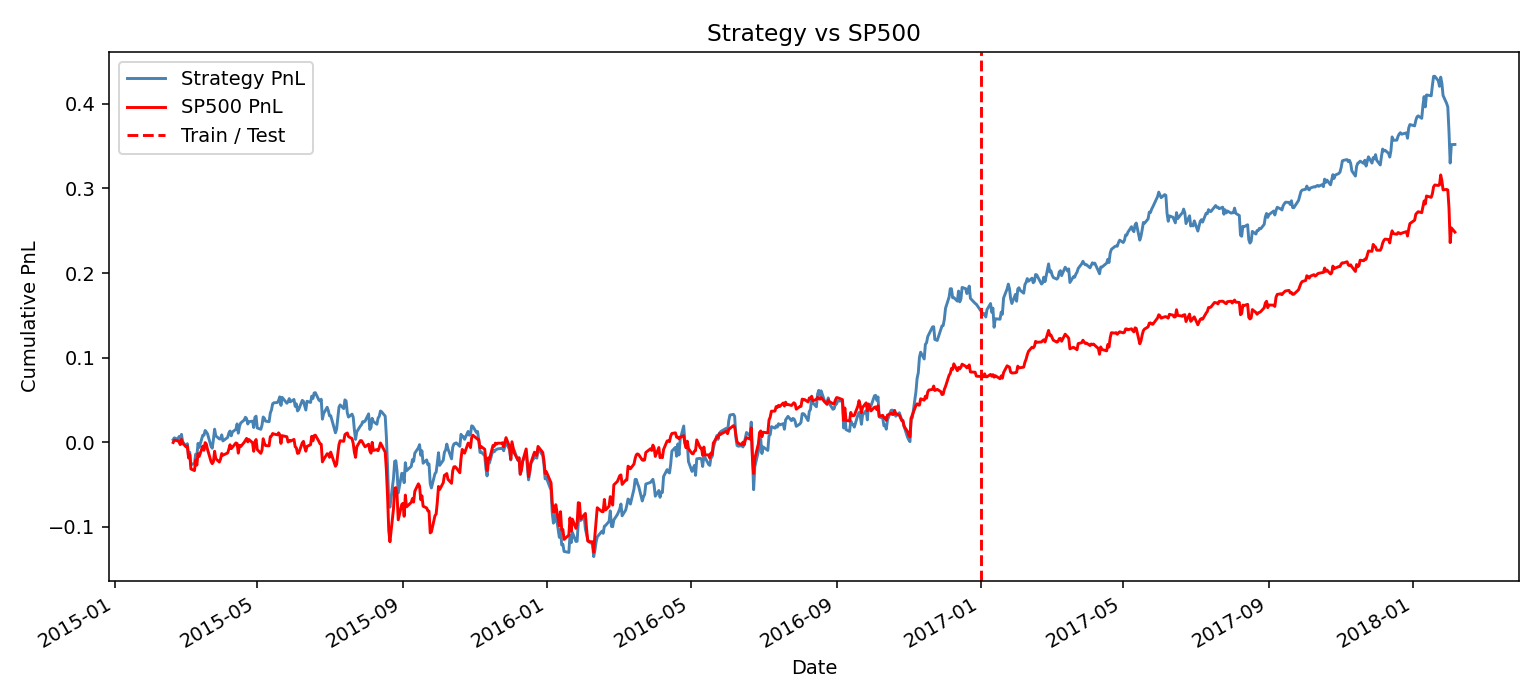
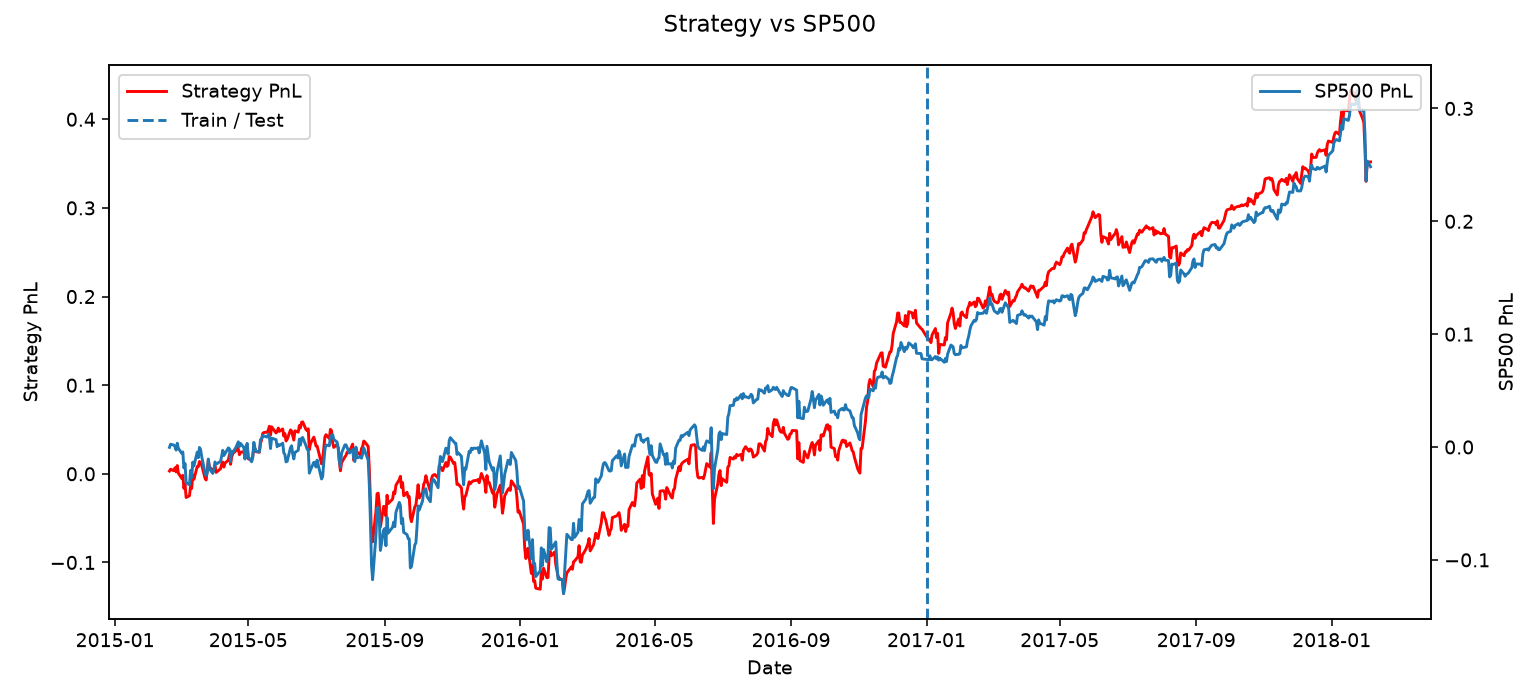
add max_drown

diff --git a/scripts/strategy.py b/scripts/strategy.py
@@ -17,6 +17,7 @@ from gridsearch import make_date_folds, prepare_training_data
 ROOT = os.path.dirname(os.path.dirname(os.path.abspath(__file__)))
 OUT = os.path.join(ROOT, "results", "strategy")
 MODEL_DIR = os.path.join(ROOT, "results", "selected-model")
+
 MOMENTUM_QUANTILE = 0.90
 
 
@@ -24,14 +25,20 @@ def to_weights(signal, momentum):
     selected_data = pd.concat(
         [signal.rename("signal"), momentum.rename("momentum")], axis=1
     ).dropna()
+
     cutoff = selected_data["momentum"].groupby(level="date").transform(
         lambda values: values.quantile(MOMENTUM_QUANTILE)
     )
+
     long = (
         (selected_data["signal"] > 0.5)
         & (selected_data["momentum"] >= cutoff)
     ).astype(float)
-    return (long / long.groupby(level="date").transform("sum").replace(0, np.nan)).rename("weight")
+
+    return (
+        long
+        / long.groupby(level="date").transform("sum").replace(0, np.nan)
+    ).rename("weight")
 
 
 def sp500_forward_returns(dates):
@@ -45,8 +52,15 @@ def sp500_forward_returns(dates):
         .set_index("Date")
         .sort_index()["Close"]
     )
+
     forward_return = close.shift(-2) / close.shift(-1) - 1
+
     return forward_return.reindex(dates).fillna(0)
+
+
+def max_drawdown(cum_r):
+    return float((cum_r.cummax() - cum_r).max())
+
 
 def fold_lengths(folds):
     return "\n".join(
@@ -60,55 +74,145 @@ def fold_lengths(folds):
 
 if __name__ == "__main__":
     os.makedirs(OUT, exist_ok=True)
+
     data = build_dataset()
+
     train, test = split_train_test(data)
+
     dates = prepare_training_data(train)[2]
+
     folds = make_date_folds(dates)
-    pipe = joblib.load(os.path.join(MODEL_DIR, "selected_model.pkl"))
+
+    pipe = joblib.load(
+        os.path.join(MODEL_DIR, "selected_model.pkl")
+    )
 
     oof = pd.read_csv(
-        os.path.join(MODEL_DIR, "ml_signal.csv"), parse_dates=["date"]
+        os.path.join(MODEL_DIR, "ml_signal.csv"),
+        parse_dates=["date"],
     ).set_index(["date", "ticker"])["ml_signal"]
 
     Xte = test.dropna(subset=["fwd_return"])[FEATURES]
+
     test_sig = pd.Series(
         pipe.predict_proba(Xte)[:, 1],
         index=Xte.index,
         name="ml_signal",
     )
+
     signal = pd.concat([oof, test_sig]).sort_index()
 
-    strategy = to_weights(signal, data["momentum_60d"])
-    aligned = data[["fwd_return"]].join(strategy, how="inner").dropna()
-    pnl = (aligned["weight"] * aligned["fwd_return"]).groupby(level="date").sum().sort_index()
+    strategy = to_weights(
+        signal,
+        data["momentum_60d"],
+    )
+
+    aligned = (
+        data[["fwd_return"]]
+        .join(strategy, how="inner")
+        .dropna()
+    )
+
+    pnl = (
+        aligned["weight"] * aligned["fwd_return"]
+    ).groupby(level="date").sum().sort_index()
+
     cum = pnl.cumsum()
+
     benchmark_pnl = sp500_forward_returns(pnl.index)
+    benchmark_cum = benchmark_pnl.cumsum()
+
+
+    # =========================
+    # Metrics
+    # =========================
 
     def metrics(mask):
         r = pnl[mask]
         benchmark = benchmark_pnl[mask]
+
         strategy_total = float(r.sum())
         benchmark_total = float(benchmark.sum())
+
+        strategy_cum = r.cumsum()
+
         return {
             "PnL": strategy_total,
             "SP500PnL": benchmark_total,
+            "MaxDrawdown": max_drawdown(strategy_cum),
         }
 
-    results = pd.DataFrame(
-        {"train": metrics(cum.index < TEST_DATE), "test": metrics(cum.index >= TEST_DATE)}
-    ).T
-    results.to_csv(os.path.join(OUT, "results.csv"))
 
-    both = pd.DataFrame(
-        {"Strategy PnL": cum, "SP500 PnL": benchmark_pnl.cumsum()}
+    results = pd.DataFrame(
+        {
+            "train": metrics(cum.index < TEST_DATE),
+            "test": metrics(cum.index >= TEST_DATE),
+        }
+    ).T
+
+    results.to_csv(
+        os.path.join(OUT, "results.csv")
     )
-    ax = both.plot(figsize=(11, 5), title="Strategy vs SP500", color=["steelblue", "red"])
-    ax.axvline(TEST_DATE, color="red", ls="--", label="Train / Test")
-    ax.set(xlabel="Date", ylabel="Cumulative PnL")
-    ax.legend(loc="upper left")
-    ax.figure.tight_layout()
-    ax.figure.savefig(os.path.join(OUT, "strategy.png"), dpi=140)
+
+
+    # =========================
+    # Plot
+    # =========================
+
+    fig, ax1 = plt.subplots(figsize=(11, 5))
+
+    # Strategy
+    ax1.plot(
+        cum.index,
+        cum,
+        label="Strategy PnL",
+        color = "red"
+        
+    )
+
+    ax1.set_xlabel("Date")
+    ax1.set_ylabel("Strategy PnL")
+
+    # S&P 500
+    ax2 = ax1.twinx()
+
+    ax2.plot(
+        benchmark_cum.index,
+        benchmark_cum,
+        label="SP500 PnL",
+    )
+
+    ax2.set_ylabel("SP500 PnL")
+
+ 
+
+   
+
+    # Train / Test boundary
+    ax1.axvline(
+        TEST_DATE,
+        ls="--",
+        label="Train / Test",
+    )
+
+    ax1.legend(loc="upper left")
+    ax2.legend(loc="upper right")
+
+    fig.suptitle("Strategy vs SP500")
+
+    fig.tight_layout()
+
+    fig.savefig(
+        os.path.join(OUT, "strategy.png"),
+        dpi=140,
+    )
+
     plt.close()
+
+
+    # =========================
+    # Report
+    # =========================
 
     report = f"""# Strategy report
 
@@ -142,10 +246,10 @@ benchmark uses the same timing and additive $1-per-day PnL convention.
 
 ## Metrics
 
-| set | Strategy PnL | S&P 500 PnL |
-|-----|--------------|-------------|
-| train | {results.loc['train', 'PnL']:.4f} | {results.loc['train', 'SP500PnL']:.4f} |
-| test | {results.loc['test', 'PnL']:.4f} | {results.loc['test', 'SP500PnL']:.4f} |
+| set | Strategy PnL | S&P 500 PnL | Maximum Drawdown |
+|-----|--------------|-------------|------------------|
+| train | {results.loc['train', 'PnL']:.4f} | {results.loc['train', 'SP500PnL']:.4f} | {results.loc['train', 'MaxDrawdown']:.4f} |
+| test | {results.loc['test', 'PnL']:.4f} | {results.loc['test', 'SP500PnL']:.4f} | {results.loc['test', 'MaxDrawdown']:.4f} |
 
 ## Trust assessment
 This result is encouraging but is not sufficient to trust the strategy with
@@ -153,7 +257,16 @@ real capital. The test set is short, the constituent dataset can contain
 survivorship bias, and the backtest omits transaction costs and slippage. A
 longer point-in-time universe and a cost-aware walk-forward test are required.
 """
-    with open(os.path.join(OUT, "report.md"), "w", encoding="utf-8") as output:
+
+    with open(
+        os.path.join(OUT, "report.md"),
+        "w",
+        encoding="utf-8",
+    ) as output:
         output.write(report)
+
     print(results)
-    print("saved strategy.png, results.csv, report.md")
+
+    print(
+        "saved strategy.png, results.csv, report.md"
+    )

diff --git a/results/strategy/report.md b/results/strategy/report.md
@@ -39,10 +39,10 @@ benchmark uses the same timing and additive $1-per-day PnL convention.
 
 ## Metrics
 
-| set | Strategy PnL | S&P 500 PnL |
-|-----|--------------|-------------|
-| train | 0.1631 | 0.0782 |
-| test | 0.1888 | 0.1702 |
+| set | Strategy PnL | S&P 500 PnL | Maximum Drawdown |
+|-----|--------------|-------------|------------------|
+| train | 0.1631 | 0.0782 | 0.1937 |
+| test | 0.1888 | 0.1702 | 0.1026 |
 
 ## Trust assessment
 This result is encouraging but is not sufficient to trust the strategy with
